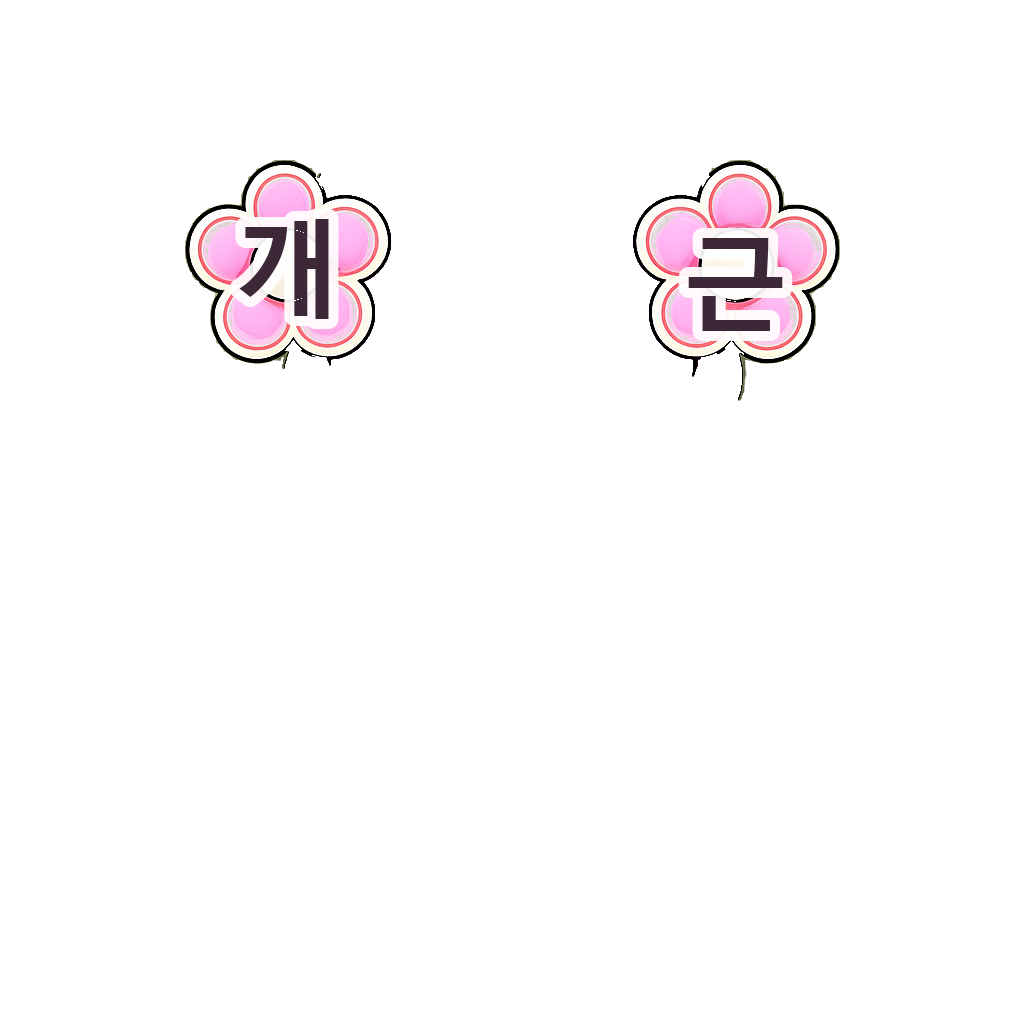
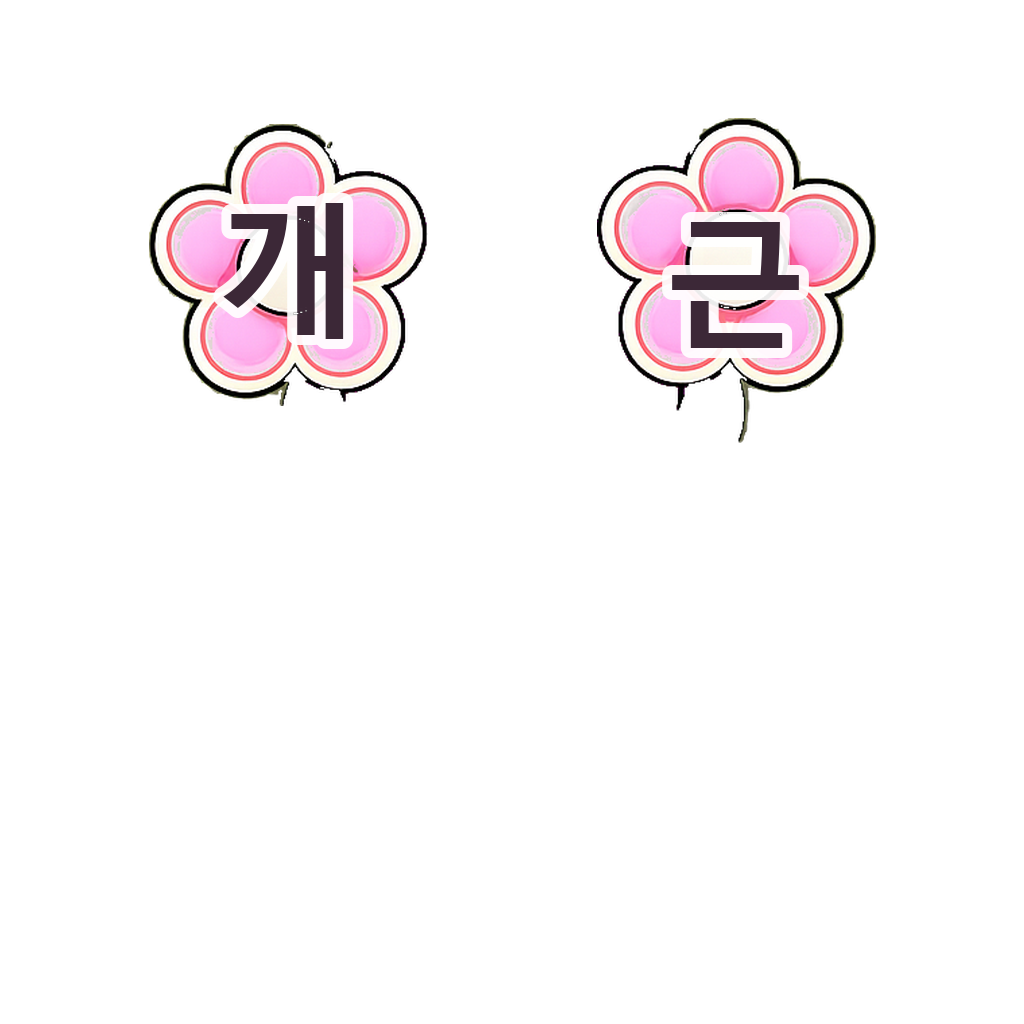
Add files via upload

Changed region(s): [[0.5625, 0.0938, 0.875, 0.4375], [0.125, 0.125, 0.4375, 0.4062]]

diff --git a/index.html b/index.html
@@ -27606,6 +27606,12 @@ html body #dashboardCard .petDashBox[data-dash-mode="tree"] > #petDashInner{
   #mkAwardMsg{ margin-top:7px; line-height:1.6; color:rgba(255,255,255,.55); }
   #mkAwardMsg.mkAwardOk{ color:#ffe9b8; }
   #mkAwardMsg.mkAwardErr{ color:#ffb9cd; }
+  /* V170_AWARD2: 장바구니 안내 행 — 결제 대상이 아니라 체크박스가 없고, 누르면 코드칸으로 간다 */
+  .mkCartSpecial{ border-color:rgba(255,216,92,.34) !important; background:rgba(255,216,92,.07) !important; cursor:pointer; }
+  .mkCartSpecial:hover{ border-color:rgba(255,216,92,.62) !important; background:rgba(255,216,92,.12) !important; }
+  .mkCartSpecial:focus-visible{ outline:2px solid rgba(255,216,92,.55); outline-offset:2px; }
+  .mkCartCodeNeed{ color:#ffd85c; white-space:nowrap; }
+
   /* 접기/펴기 — 접힌 기본 상태에서는 제목 줄만 남기고(아래 여백까지 회수) 남는 높이를 미리보기에 돌려준다 */
   #mkAwardToggle{ cursor:pointer; user-select:none; -webkit-user-select:none; }
   #mkAwardToggle:hover{ color:#ffe9b8; }
@@ -27980,18 +27986,45 @@ html body #dashboardCard .petDashBox[data-dash-mode="tree"] > #petDashInner{
     });
     return items;
   }
+  /* V170_AWARD2: 표시 전용 — 미리보기 중인 미보유 특수 파츠 목록.
+     tryOnItems()(결제 후보)와 절대 섞지 않는다. 가격이 없으므로 합계·결제에도 들어가지 않는다. */
+  function specialTryOnItems(){
+    var items = [];
+    if(chara.phase !== 'ready') return items;
+    var owned = getOwned();
+    chara.cats.forEach(function(c){
+      if(isHairBackCat(c.key)) return;
+      selArr(c.key).forEach(function(nm){
+        if(owned[ownedKeyFor(c.key, nm)]) return;
+        if(!isSpecial(c.key, nm)) return;
+        var part = c.parts.find(function(p){ return p.name === nm; });
+        items.push({ catKey: c.key, name: nm, label: c.label, url: part ? part.url : '' });
+      });
+    });
+    return items;
+  }
   function renderCart(){
     var box = $id('mkCharaCartBox'); if(!box) return;
     var items = tryOnItems();
+    var sp = specialTryOnItems(); // V170_AWARD2: 결제되지 않는 안내 행
+    var spTail = sp.length ? ' · 🎖 ' + sp.length + '개는 코드로 받아요' : '';
+    var spHtml = sp.map(function(it){
+      return '<div class="mkCartItem mkCartSpecial" data-award="1" role="button" tabindex="0" title="개근상 파츠라 코인으로는 살 수 없어요 — 눌러서 코드 등록칸으로 가기">'
+        + '<span class="mkCartThumb">' + (it.url ? thumbImgHtml(it.catKey, it.name, it.url, '') : '') + '</span>'
+        + '<span class="mkCartInfo"><b>' + esc(it.label) + '</b><span>' + esc(it.name) + '</span></span>'
+        + '<span class="mkCartPrice mkCartCodeNeed">🎖 코드 필요</span>'
+        + '</div>';
+    }).join('');
     var keep = {};
     items.forEach(function(it){ keep[ownedKeyFor(it.catKey, it.name)] = 1; });
     Object.keys(cartUnchecked).forEach(function(k){ if(!keep[k]) delete cartUnchecked[k]; });
     var list = $id('mkCartList');
     box.style.display = ''; // V169_SHOP2: 항상 표시 — 자리 고정으로 미리보기 크기 유지
     if(!items.length){
-      if(list) list.innerHTML = '<div class="mkCartEmpty"><span class="ic">👗</span><span>파츠를 누르면 여기에 담겨요<br>결제 전엔 나만 보여요</span></div>';
+      // V170_AWARD2: 결제 후보가 0개여도 특수 미리보기 중이면 그 행은 보여준다(빈 안내로 덮지 않는다)
+      if(list) list.innerHTML = spHtml || '<div class="mkCartEmpty"><span class="ic">👗</span><span>파츠를 누르면 여기에 담겨요<br>결제 전엔 나만 보여요</span></div>';
       var tot0 = $id('mkCartTotal');
-      if(tot0) tot0.innerHTML = '선택 0개 · 합계 <b>🪙0</b> · 보유 🪙' + fmtCoins(readCoins());
+      if(tot0) tot0.innerHTML = '선택 0개 · 합계 <b>🪙0</b> · 보유 🪙' + fmtCoins(readCoins()) + spTail;
       var pay0 = $id('mkCartPay');
       if(pay0){ pay0.disabled = true; pay0.textContent = '🪙 결제'; }
       return;
@@ -28007,9 +28040,9 @@ html body #dashboardCard .petDashBox[data-dash-mode="tree"] > #petDashInner{
         + '<span class="mkCartInfo"><b>' + esc(it.label) + '</b><span>' + esc(it.name) + '</span></span>'
         + '<span class="mkCartPrice">🪙' + fmtCoins(it.price) + '</span>'
         + '</label>';
-    }).join('');
+    }).join('') + spHtml; // 결제 후보 뒤에 안내 행
     var tot = $id('mkCartTotal');
-    if(tot) tot.innerHTML = '선택 ' + checkedN + '개 · 합계 <b>🪙' + fmtCoins(total) + '</b> · 보유 🪙' + fmtCoins(readCoins());
+    if(tot) tot.innerHTML = '선택 ' + checkedN + '개 · 합계 <b>🪙' + fmtCoins(total) + '</b> · 보유 🪙' + fmtCoins(readCoins()) + spTail;
     var pay = $id('mkCartPay');
     if(pay){ pay.disabled = !checkedN; pay.textContent = '🪙 ' + fmtCoins(total) + ' 결제'; }
   }
@@ -28240,13 +28273,17 @@ html body #dashboardCard .petDashBox[data-dash-mode="tree"] > #petDashInner{
       var has = !!owned[ownedKeyFor(cat.key, p.name)];
       var isOn = isAccCat(cat.key) ? selArr(cat.key).indexOf(p.name)>=0 : chara.sel[cat.key]===p.name;
       var tryOn = isOn && !has; // V169_SHOP: 입어보는 중(미결제) — 가격 배지 유지 + 금색 톤
-      /* V170_AWARD: 특수 파츠는 가격이 없다 — 코인 배지 대신 개근상 배지, 미보유면 입어보기도 막는다(장바구니가 값을 매길 수 없어서) */
+      /* V170_AWARD: 특수 파츠는 가격이 없다 — 코인 배지 대신 개근상 배지.
+         V170_AWARD2: 미보유도 일반 파츠처럼 입어보기 가능 — 결제 후보에서만 빠진다. 배지는 보유/미리보기/잠금 3단계. */
       if(isSpecial(cat.key, p.name)){
         var tag = specialTag(cat.key, p.name);
-        var sTitle = esc(p.name)+' — '+esc(tag.label)+(has?' · 보유 중':' · 개근상 코드로 받을 수 있어요');
-        return '<div class="mkCharaThumb'+(isOn?' on':'')+(has?'':' mkLocked')+'" data-name="'+esc(p.name)+'" data-special="1" title="'+sTitle+'">'
+        var sTry = isOn && !has; // 미보유인데 착장 중 = 미리보기
+        var sTitle = esc(p.name)+' — '+esc(tag.label)+(has
+          ? ' · 보유 중'
+          : (sTry ? ' · 미리보기 중 — 개근상 코드를 등록하면 내 것이 돼요' : ' · 눌러서 미리보기 · 개근상 코드로 받을 수 있어요'));
+        return '<div class="mkCharaThumb'+(isOn?' on':'')+(sTry?' mkTryOn':(has?'':' mkLocked'))+'" data-name="'+esc(p.name)+'" data-special="1" title="'+sTitle+'">'
           + thumbImgHtml(cat.key, p.name, p.url, '')
-          + '<span class="mkCharaPrice mkSpecialBadge">'+esc(tag.emoji)+' '+(has?'보유 ✓':'개근상')+'</span>'
+          + '<span class="mkCharaPrice mkSpecialBadge">'+esc(tag.emoji)+' '+(has?'보유 ✓':(sTry?'미리보기':'개근상'))+'</span>'
           + '</div>';
       }
       var price = partPrice(cat.key, p.name);
@@ -28261,13 +28298,13 @@ html body #dashboardCard .petDashBox[data-dash-mode="tree"] > #petDashInner{
     el.querySelectorAll('.mkCharaThumb').forEach(function(tile){
       tile.addEventListener('click', function(){
         var nm = tile.dataset.name || null;
-        /* V170_AWARD: 미보유 특수 파츠 — 입어보기 대신 코드 입력칸으로 안내 (보유했으면 일반 파츠와 똑같이 동작) */
-        if(nm && tile.dataset.special === '1' && !getOwned()[ownedKeyFor(cat.key, nm)]){
-          toast('🎖 개근상 파츠예요 — 관리자님께 받은 개근상 코드를 입력하면 받을 수 있어요!', 3400);
-          focusAwardInput();
-          return;
-        }
+        /* V170_AWARD2: 미보유 특수 파츠도 일반 파츠와 똑같이 착장 토글 — 결제 후보에서만 빠진다.
+           "켤 때만" 미리보기라고 한 번 알려 주고, 벗을 때는 조용히 넘어간다. */
+        var isSp = !!(nm && tile.dataset.special === '1' && !getOwned()[ownedKeyFor(cat.key, nm)]);
+        var onNow = function(){ return isAccCat(cat.key) ? selArr(cat.key).indexOf(nm)>=0 : chara.sel[cat.key]===nm; };
+        var wasOn = isSp && onNow();
         selectPart(cat.key, nm); // V169_SHOP: 미보유도 즉시 착장(입어보기) — 결제는 장바구니에서
+        if(isSp && !wasOn && onNow()) toast('🎖 미리보기예요 — 개근상 코드를 등록하면 내 것이 돼요', 2600);
       });
     });
   }
@@ -28500,6 +28537,18 @@ html body #dashboardCard .petDashBox[data-dash-mode="tree"] > #petDashInner{
       if(t.checked) delete cartUnchecked[t.dataset.key]; else cartUnchecked[t.dataset.key]=true;
       renderCart(); // 합계/결제 버튼 실시간 갱신
     });
+    /* V170_AWARD2: 장바구니의 "🎖 코드 필요" 안내 행 — 누르면 개근상 칸을 펼치고 입력칸으로 데려간다 */
+    if(cartList){
+      cartList.addEventListener('click', function(e){
+        var row = e.target && e.target.closest ? e.target.closest('.mkCartSpecial') : null;
+        if(row) focusAwardInput();
+      });
+      cartList.addEventListener('keydown', function(e){
+        var row = e.target && e.target.closest ? e.target.closest('.mkCartSpecial') : null;
+        if(!row) return;
+        if(e.key==='Enter' || e.key===' ' || e.key==='Spacebar' || e.keyCode===13 || e.keyCode===32){ e.preventDefault(); focusAwardInput(); }
+      });
+    }
     /* V170_AWARD: 개근상 칸 접기/펴기 토글 바인딩(1회) — 마우스 클릭 + 키보드 Enter/Space */
     var awardTg=body.querySelector('#mkAwardToggle');
     if(awardTg){
